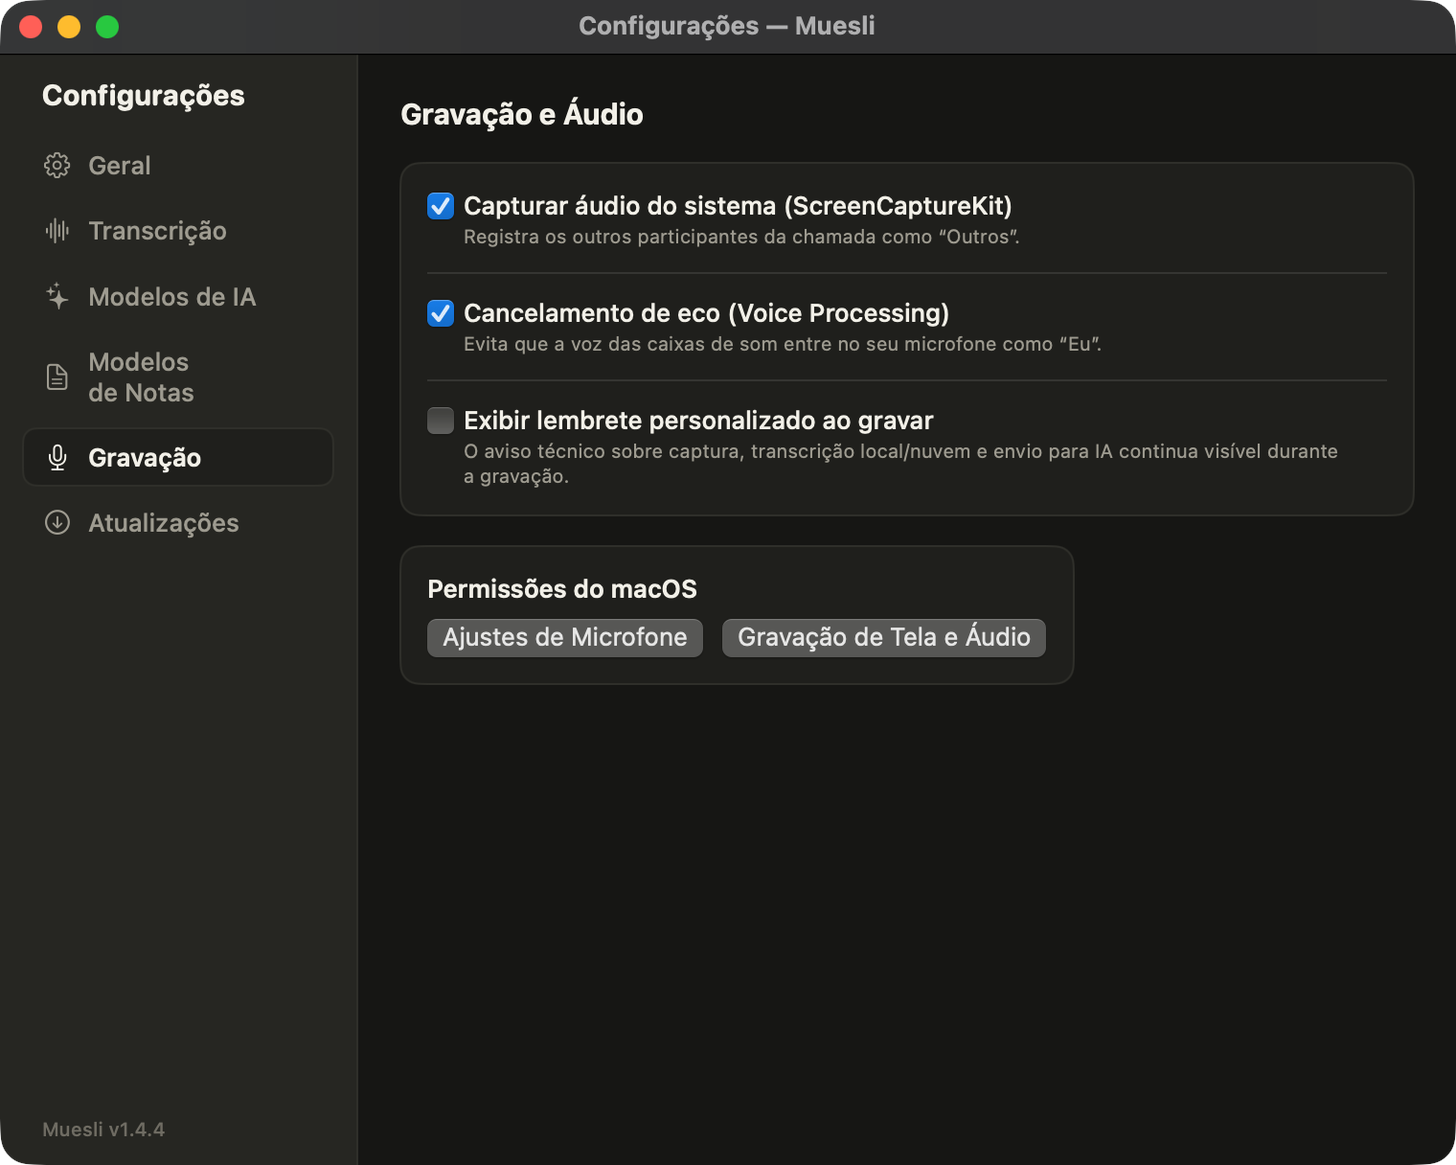
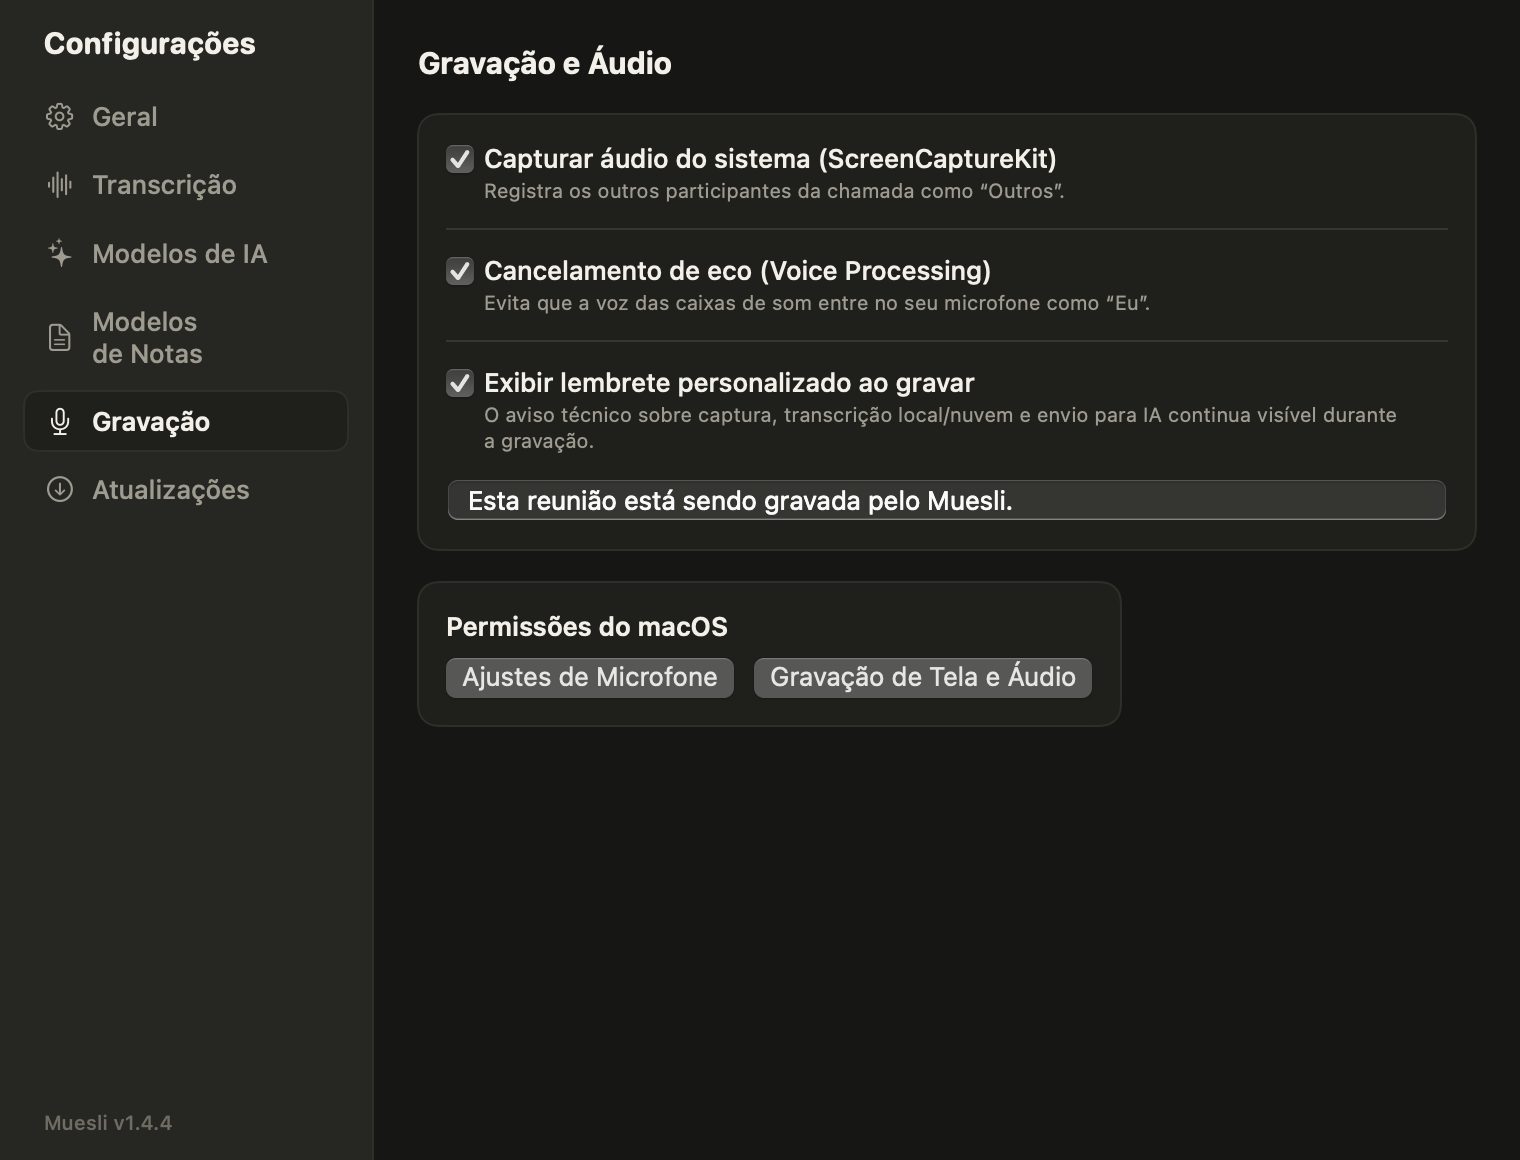
docs: update dark mode screenshots and fix SetupSheet background

diff --git a/Sources/Muesli/UI/SetupSheet.swift b/Sources/Muesli/UI/SetupSheet.swift
@@ -130,6 +130,7 @@ struct SetupSheet: View {
         }
         .padding(24)
         .frame(width: 560)
+        .background(CoastalTheme.background)
         .onAppear {
             refresh()
             refreshTimer = Timer.scheduledTimer(withTimeInterval: 2, repeats: true) { _ in

diff --git a/README.md b/README.md
@@ -40,19 +40,55 @@ flowchart LR
 
 ## Capturas de tela
 
-Capturas reais da interface do Muesli v1.4.4.
+Capturas reais da interface do Muesli v1.4.4 no tema escuro.
 
 ### Tela principal
 
 A barra lateral mostra as categorias recolhidas para facilitar uma visão geral; cada uma pode ser expandida para exibir suas reuniões.
 
-![Tela principal do Muesli v1.4.4 com categorias recolhidas](docs/screenshots/muesli-1.4.4-principal.png)
+![Tela principal do Muesli v1.4.4](docs/screenshots/muesli-1.4.4-principal.png)
 
-### Configurações de gravação e áudio
+### Configuração inicial
 
-As opções de captura e o lembrete personalizado ficam nas configurações de gravação. O aviso técnico de privacidade continua visível durante a gravação.
+Checklist guiado de permissões, mecanismo Whisper, modelo de fala e provedor de IA.
+
+![Configuração inicial do Muesli v1.4.4](docs/screenshots/muesli-1.4.4-setup-inicial.png)
+
+### Configurações — Geral
+
+Escolha do tema da interface (Claro, Escuro ou Automático), aprimoramento automático ao parar a gravação e pasta local dos dados.
+
+![Configurações gerais do Muesli v1.4.4](docs/screenshots/muesli-1.4.4-config-geral.png)
+
+### Configurações — Transcrição
+
+Seleção do motor de transcrição (Whisper local ou nuvem), idioma da fala, tamanho dos blocos e gerenciamento dos modelos `ggml`.
+
+![Configurações de transcrição do Muesli v1.4.4](docs/screenshots/muesli-1.4.4-config-transcricao.png)
+
+### Configurações — Modelos de IA
+
+Configuração de provedores (Groq, Google Gemini, OpenAI e compatíveis, Anthropic Claude e Ollama local) com suporte a múltiplas chaves.
+
+![Configurações de modelos de IA do Muesli v1.4.4](docs/screenshots/muesli-1.4.4-config-ia.png)
+
+### Configurações — Modelos de Notas
+
+Modelos de ata pré-definidos e criação de modelos personalizados com seções configuráveis.
+
+![Configurações de modelos de notas do Muesli v1.4.4](docs/screenshots/muesli-1.4.4-config-modelos-notas.png)
+
+### Configurações — Gravação e Áudio
+
+As opções de captura, cancelamento de eco, lembrete personalizado e atalhos para permissões do macOS. O aviso técnico de privacidade continua visível durante a gravação.
 
 ![Configurações de gravação e áudio do Muesli v1.4.4](docs/screenshots/muesli-1.4.4-gravacao.png)
+
+### Configurações — Atualizações
+
+Verificação de novas versões diretamente no GitHub.
+
+![Configurações de atualizações do Muesli v1.4.4](docs/screenshots/muesli-1.4.4-config-atualizacoes.png)
 
 ## Início rápido
 
